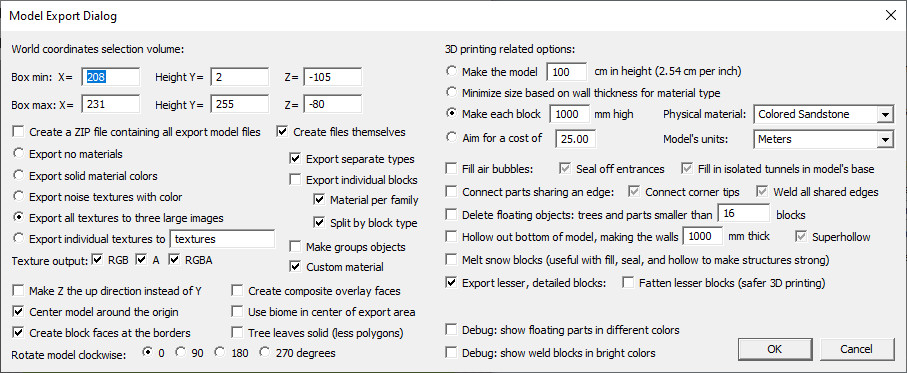
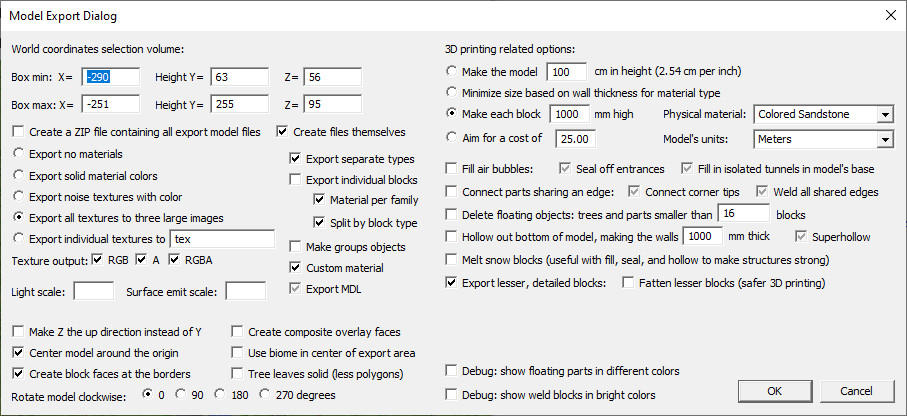
little emitter scale fix, docs 9.06

diff --git a/docs/downloads.html b/docs/downloads.html
@@ -73,7 +73,7 @@
 
 		<div id="content" class="clearfix">
 			<div id="downloadImgs" class="helpLightOuterSector">
-				<a href="https://erich.realtimerendering.com/minecraft/public/mineways/minewaysV905.zip">
+				<a href="https://erich.realtimerendering.com/minecraft/public/mineways/minewaysV906.zip">
 				<div id="windowsDownload">
 					<p>Download for Windows</p>
 					<img id="windows_logo" src="images/windowsLogo.jpg" alt="Windows logo">
@@ -138,13 +138,13 @@
 				<h1 id="platform">Platform-Specific Problems and Fixes</h1>
 				<div id="windowsPlatformHelp" class="helpInnerSector">
 					<h2 id="windows">Windows</h2>
-						<P><B>Can't download Mineways itself?</B> First thing to try: open up an Incognito tab and <a href="http://mineways.com">download from the homepage</a>. If that doesn't work, try using a different browser. Sometimes antivirus software will not allow you to download Mineways (and sometimes it won't even tell you it's "protecting" you). Chrome and other browsers may give you "minewaysVxxx.zip is not commonly downloaded and may be dangerous" with a "Discard" button next to it. Hit the "^" to the right of that and choose "Keep." Alternately, <a href="https://erich.realtimerendering.com/minecraft/public/mineways/minewaysV905min.zip">download the Mineways minimal version</a>, which shouldn't give the warning. Everything else in the main zip is for adding new resource packs, automating processes, etc. Mineways.exe is all you need most of the time. Me, <a href="http://erichaines.com">I'm trustworthy</a>. The Mineways code is open source. That said, <I>do</I> make sure you're downloading Mineways from this site, <a href="http://mineways.com">mineways.com</a> (which renames to https://erich.realtimerendering.com/minecraft/public/mineways/, because I'm a cheapskate).
+						<P><B>Can't download Mineways itself?</B> First thing to try: open up an Incognito tab and <a href="http://mineways.com">download from the homepage</a>. If that doesn't work, try using a different browser. Sometimes antivirus software will not allow you to download Mineways (and sometimes it won't even tell you it's "protecting" you). Chrome and other browsers may give you "minewaysVxxx.zip is not commonly downloaded and may be dangerous" with a "Discard" button next to it. Hit the "^" to the right of that and choose "Keep." Alternately, <a href="https://erich.realtimerendering.com/minecraft/public/mineways/minewaysV906min.zip">download the Mineways minimal version</a>, which shouldn't give the warning. Everything else in the main zip is for adding new resource packs, automating processes, etc. Mineways.exe is all you need most of the time. Me, <a href="http://erichaines.com">I'm trustworthy</a>. The Mineways code is open source. That said, <I>do</I> make sure you're downloading Mineways from this site, <a href="http://mineways.com">mineways.com</a> (which renames to https://erich.realtimerendering.com/minecraft/public/mineways/, because I'm a cheapskate).
 						<P>
 						If you have problems with exporting, first try not changing any <a href="mineways.html#obj_export_options">export options</a>. Some tutorial videos give various options to click in the export dialog. For the most part, the default options should get you something reasonable to start with, and changing them might even cause a crash in Mineways (since there are so many permutations, it is hard for me to test them all).
 						<P>
 						If you get an error about MSVCR140.DLL being missing or "VCRUNTIME140_1.dll was not found" or "api-ms-win-runtime-l1-1-0-.dll" not found or similar, install the <a href="https://support.microsoft.com/en-us/help/2977003/the-latest-supported-visual-c-downloads">Microsoft Visual C++ Redistributable for Visual Studio 2015, 2017 and 2019</a> for your system. Select vc_redist.x64.exe if you have a 64-bit system, vc_redist.x86.exe for a 32-bit system. You may also need to reboot. (Not sure <a href="https://www.howtogeek.com/howto/21726/how-do-i-know-if-im-running-32-bit-or-64-bit-windows-answers/">what system type you have</a>? Press the Windows key+I, select "System", select "About" at the bottom, and look at "System type" under "Device specifications"). Sorry for this annoyance, but Microsoft does not make this easy, and the problem even <a href="https://en.wikipedia.org/wiki/DLL_Hell">has a name</a>. Microsoft will misleadingly say "Reinstalling the program may fix this problem" - it won't. Installing the redistributable will. Still having weird problems on startup? Try <a href="https://support.microsoft.com/en-us/help/929833/use-the-system-file-checker-tool-to-repair-missing-or-corrupted-system">looking for system corruption</a>, advice from <a href="https://forums.dolphin-emu.org/Thread-cxxframehandler4-could-not-be-located">this post</a>. <B>Note:</B> For Mineways 5.10 and earlier, you may get an error about MSVCR120.DLL being missing; install the <a href="https://support.microsoft.com/en-us/help/2977003/the-latest-supported-visual-c-downloads">Visual Studio 2013 (VC++ 12.0)</a> redistributable.
 						<P>
-						If you get "Windows protected your PC" when running Mineways, click on "More info" and then "Run anyway". <a href="http://erichaines.com">I'm trustworthy</a>, but feel free to run the mineways.exe executable through <a href="https://www.virustotal.com/gui/home">VirusTotal</a> to feel safe. Note that this site sometimes reports that VBA32 will find <a href="https://en.wikipedia.org/wiki/Backdoor.Win32.IRCBot">BScope.Backdoor.IRCBot</a> on the Mineways ZIP itself - looking at individual files, mineways32.exe (now "for_old_machines_Mineways32.exe") appears to be the one causing this warning. Note that VBA32 is just 1 of 71 antivirus packages run on the code, so I believe this is a false positive, since the other 70 packages clear it. Read about <a href="https://www.howtogeek.com/180162/how-to-tell-if-a-virus-is-actually-a-false-positive/">false positives here</a>. I've written the VBA32 people about this problem; no response. If you are still concerned, <a href="https://erich.realtimerendering.com/minecraft/public/mineways/minewaysV905min.zip">download the Mineways minimal version</a>, which shouldn't give the warning. Also, I noticed that <a href="https://www.virustotal.com/gui/home">VirusTotal</a> is now saying that the file for_old_machines_Mineways32.exe has the virus Gen:Variant.Razy.582623. I have no idea what that is about; I think it's a false positive but cannot find more information about it on Google. If someone else knows different, clue me in. I have asked about it <a href="https://forum.adaware.com/index.php?/topic/38130-genvariantrazy582623-reported-on-for_old_machines_mineways32exe/">here</a>.
+						If you get "Windows protected your PC" when running Mineways, click on "More info" and then "Run anyway". <a href="http://erichaines.com">I'm trustworthy</a>, but feel free to run the mineways.exe executable through <a href="https://www.virustotal.com/gui/home">VirusTotal</a> to feel safe. Note that this site sometimes reports that VBA32 will find <a href="https://en.wikipedia.org/wiki/Backdoor.Win32.IRCBot">BScope.Backdoor.IRCBot</a> on the Mineways ZIP itself - looking at individual files, mineways32.exe (now "for_old_machines_Mineways32.exe") appears to be the one causing this warning. Note that VBA32 is just 1 of 71 antivirus packages run on the code, so I believe this is a false positive, since the other 70 packages clear it. Read about <a href="https://www.howtogeek.com/180162/how-to-tell-if-a-virus-is-actually-a-false-positive/">false positives here</a>. I've written the VBA32 people about this problem; no response. If you are still concerned, <a href="https://erich.realtimerendering.com/minecraft/public/mineways/minewaysV906min.zip">download the Mineways minimal version</a>, which shouldn't give the warning. Also, I noticed that <a href="https://www.virustotal.com/gui/home">VirusTotal</a> is now saying that the file for_old_machines_Mineways32.exe has the virus Gen:Variant.Razy.582623. I have no idea what that is about; I think it's a false positive but cannot find more information about it on Google. If someone else knows different, clue me in. I have asked about it <a href="https://forum.adaware.com/index.php?/topic/38130-genvariantrazy582623-reported-on-for_old_machines_mineways32exe/">here</a>.
 						<P>
 						If you get "Error writing to export file; partial file output" (and "PNG error: failed to open file for writing") when you try to save an export, it's likely that antivirus software (such as Avast) is blocking Mineways. You need to give Mineways permission to write documents. See the item above if you want to test Mineways for viruses. Another possibility is that the directory path you gave Mineways is somehow confusing it. Try exporting to some directory that is simpler, such as c:\temp (which you may need to create, of course).(<I>Thanks to Repty for figuring out the antivirus solution.</I>)
 						<P>
@@ -223,7 +223,7 @@
 					<h2>General Troubleshooting Guide</h2>
 					<p>If something goes wrong, here's the checklist I go through with people:</p>
 					<UL>
-						<LI>Did you <a href="https://erich.realtimerendering.com/minecraft/public/mineways/minewaysV905.zip">download the latest version</a>? Mineways has undergone many bug fixes.
+						<LI>Did you <a href="https://erich.realtimerendering.com/minecraft/public/mineways/minewaysV906.zip">download the latest version</a>? Mineways has undergone many bug fixes.
 						<LI>Did you read any warnings from the program carefully?
 						<LI>Reboot your computer and try the program one more time, just to be sure. Sometimes starting fresh clears out some box inadvertently checked, or untangles some hidden operating system bug.
 						<LI>Run through the platform-specific problems for <a href="#windows">Windows</a>, <a href="#mac">Mac</a>, and <a href="#linux">Linux</a>.
@@ -233,7 +233,7 @@
 					<UL>
 						<LI> "I double-click on Mineways, it seems to run but doesn't appear" - This is often due to some (still mysterious to me) path problem with where your worlds are located. Instead of double-clicking on Mineways.exe, double-click on the file "mineways_without_worlds" (you might see it end in ".bat"). You'll have to open your worlds manually by finding the right directory. You can easily do this by using File | Open... and then pasting in this for the file name: <b>%appdata%\.minecraft\saves</b> - choose a world directory and select the level.dat file there to open it.
 						<LI> "I tried to export a large area but Mineways ran out of memory or otherwise failed" - First, use mineways.exe and not mineways32.exe (now "for_old_machines_Mineways32.exe"), if you can - the latter is for Windows 32, an old operating system with serious memory limits. Next, try selecting "Give more export memory!" under the "Help" menu and then export. If that fails, you can <a href="scripting.html#hunks">use scripting to export your world</a> as separate "hunks."
-						<LI> "I chose the map fine, but the screen is all gray" - first, try hitting F2 (jump to spawn) and F3 (jump to player) and see if that helps get you to the right spot on your map. Next, you <a href="https://erich.realtimerendering.com/minecraft/public/mineways/minewaysV905.zip">have the latest version of Mineways</a>, right? The latest version is needed to support the newest version of Minecraft, and beta versions of Minecraft can cause problems.</LI>
+						<LI> "I chose the map fine, but the screen is all gray" - first, try hitting F2 (jump to spawn) and F3 (jump to player) and see if that helps get you to the right spot on your map. Next, you <a href="https://erich.realtimerendering.com/minecraft/public/mineways/minewaysV906.zip">have the latest version of Mineways</a>, right? The latest version is needed to support the newest version of Minecraft, and beta versions of Minecraft can cause problems.</LI>
 						<LI> "I use the <i>insert-name-here</i> mod and Mineways doesn't work with it" - Sorry, Mineways likely never will, see <a href="https://github.com/erich666/Mineways/issues/44">this explanation</a> for why mod support is hard.</LI>
 						<LI> "I don't like your torches/flames/etc." - you can remove any block from export by using a <a href="#schemes">color scheme</a>, then put your own models in place. You can use color schemes for all sorts of tricks, e.g., export your model a few times, with different options for the blocks you want to export. To change the textures on a block, use "Export tiles for textures" and edit the individual texture output. You might also look into <a href="https://theduckcow.com/dev/blender/mcprep/">MCprep</a> if you use Blender.
 						<LI> "I read the OBJ file Mineways made into Blender and objects like grass and flowers are surrounded in black." Read the <a href="mineways.html#blender">Blender import documentation</a>, especially step 9.
@@ -275,7 +275,7 @@
 	<div id="footer">
 		<hr>
 		<p>Webmaster: <a href="mailto:erich@acm.org">Eric Haines</a>
-		<br id="lastUpdate">Last updated 11/16/2021</p>	</div>
+		<br id="lastUpdate">Last updated 11/24/2021</p>	</div>
 
 </body>
 </html>

diff --git a/docs/mineways.html b/docs/mineways.html
@@ -109,6 +109,7 @@ Normally you can just hit "OK" on the export dialog and things will work fine. R
    <LI><a href="#obj_export_options">Wavefront OBJ File Export Options</a>
    <LI><a href="#full_material">Custom Material</a>
    <LI><a href="#composite">Create Composite Overlay Faces</a>
+   <LI><a href="#usd_export_options">Pixar USD File Export Options</a>
    <LI><a href="#center_model">Center Model Around the Origin</a>
    <LI><a href="#leaves_solid">Tree Leaves Solid</a>
  </UL>
@@ -443,7 +444,7 @@ If you find you want your model data to be arranged a bit differently for your r
 <P>Any number of polygons can be in an object or group. There is also a set of materials (defined in the .mtl file). One and only one material is applied to each polygon.
 <UL>
 <LI>Export separate types: on by default, this option says each type of block - stone, logs, fences, and so on - are put in a separate group. Turning this option off means no groups are created, which can be useful for simplifying import into rendering packages but can make editing more difficult. This option does not affect how many materials are generated.
-<LI id="individual" class="ib">Export individual blocks: This option is mutually exclusive with the previous option, "Export separate types." Normally Mineways exports only those faces that are visible. By checking this box, <i>all</i> of <i>every</i> block's faces are output, allowing you to animate such operations as mining or explosions. This considerably increases file size and render time, so use it only if you need it. You may also want to check the <a href="#make_groups_objects">Make groups objects</a> option, e.g., for Blender export, as each group will then be a separate object you can manipulate. For Blender you'll also want to make sure "Material per family" is checked. Note that the individual blocks option will change the appearance of some blocks, such as water and glass blocks, as all faces now have sides, which are visible. Normally Minecraft removes these interior sides (e.g., where two glass blocks share a face), but this option makes them visible. This option works for OBJ and USD export. With USD export, two additional USD files are produced, "*_BlockLibrary.usda" and "*_MaterialLibrary.usda".
+<LI id="individual" class="ib">Export individual blocks: This option is mutually exclusive with the previous option, "Export separate types." Normally Mineways exports only those faces that are visible. By checking this box, <i>all</i> of <i>every</i> block's faces are output, allowing you to animate such operations as mining or explosions. This considerably increases file size and render time, so use it only if you need it. You may also want to check the <a href="#make_groups_objects">Make groups objects</a> option, e.g., for Blender export, as each group will then be a separate object you can manipulate. For Blender you'll also want to make sure "Material per family" is checked. Note that the individual blocks option will change the appearance of some blocks, such as water and glass blocks, as all faces now have sides, which are visible. Normally Minecraft removes these interior sides (e.g., where two glass blocks share a face), but this option makes them visible. This option works for OBJ and USD export.
 <LI>Material per family: on by default; blocks in a family (or type; see next option) have their own material. If turned off, a single material is used for all objects. When exporting individual blocks, this checkbox affects whether each block is in its own group (making it easier to edit: move, delete, etc.) or whether individual blocks are grouped by material.
 <LI><a id="material_subtypes">Split by block type</a>: Blocks have a family and a type. When checked (the default), the individual types are used for grouping and materials. If you find you are editing too many materials, turn it off and materials will be exported per family. You can see many of the families <a href="https://minecraft-ids.grahamedgecombe.com/">on this page</a>, e.g., Stone, Granite, Polished Granite..., through Polished Andesite are a family. New materials are limited to those where there's a physical difference in the material itself, not just geometric changes. For example, a cake being sliced will not give it a separate material and group. Crops are given separate materials for each growth level, and farmland for each wetness level. Redstone wire is given separate materials for its 16 levels of power, even though Mineways itself differentiates only between off and on states. Campfires, sea pickles, and respawn anchors will be given <a href="https://minecraft.gamepedia.com/Light">separate emission levels</a> when this box is checked; else the maximum light level is assumed.
 </UL>
@@ -697,8 +698,6 @@ If you want to use the custom material description for OBJ export but do not wan
 
 <P>
 Special note: in terrain files, the one ending in "_r.png" is a roughness texture. When exported for OBJ, this texture is inverted and the exported files are named "_s.png", for "specular". This is all a bit confusing, I know, but my advice is to export using terrainExt_JGRTX64.png, for example, and see what gets created for you, with "Custom material" set or not. If you want the "r" version, you can either manually invert the _s.png images (ugh), or just do a separate USDA export, which will produce the _r.png versions.
-<P>
-For USDA export, the Custom material setting mainly has the effects of making the texture's texels appear blocky, in Minecraft fashion, and present stripped down materials in <a href="#ovcreate">Omniverse Create</a>. This is almost always a good idea, even with high resolution textures. If you turn this option off, you can get texture wrapping problems, where the bottom of a fire cutout, for example, will get interpolated along the top edge of the fire, giving a narrow line of fire at the top of the cutout.
 
 <P>
 <b>Make Z the up direction instead of Y:</b> some graphics applications consider the Y direction to be "up", some Z. If your model imports sideways into your application, check (or uncheck) this box.
@@ -723,6 +722,33 @@ This option was on by default for rendering up to version 5.00 of Mineways (in t
     </div>
   </div>
 </div>
+
+
+<a id="usd_export_options">
+<H4>Pixar USD File Export Options</H4></a>
+
+<a href="https://graphics.pixar.com/usd/release/index.html">Pixar's USD format</a> is getting uptake in many popular digital content creation (DCC) applications, including Cinema 4D, Houdini, Unreal Editor, and (soon) Blender. It is more full-featured than the ancient Wavefront OBJ format, including direct support for physically based materials, emitters, and more. If your package of choice supports it, consider using it!
+
+<P>
+There are a few changes to how the export dialog works. Many options are not supported at this point, as the focus has been the highest-quality and more flexible export option: Export individual textures. This form lets you replace and edit individual texture files. USD export works particularly nicely with the JG-RTX terrain files.
+
+<P>
+What follows are how various options apply to USD export. Also, Mineways' "View | Light" can be toggled on to give nighttime lighting. Turning "View | Elevation shading" on will give a light fog to the USD scene exported.
+
+<P>
+<B>Export individual blocks:</B> With USD export, two additional USD files are produced, "*_BlockLibrary.usda" and "*_MaterialLibrary.usda". USD structures its data in different forms. These additional files contain the individual blocks and materials, in case these are of use as-is.
+
+<P>
+<B>Export MDL:</B> Applies only to USD export. <a href="https://www.nvidia.com/en-us/design-visualization/technologies/material-definition-language/">MDL material descriptions</a> are exported. These generally give higher-quality looks to glass objects, for example. Omniverse is the main user of MDL at this point, with other applications coming up to speed. Turning this off will export only <a href="https://graphics.pixar.com/usd/release/wp_usdpreviewsurface.html">UsdPreviewSurface material descriptions</a>. Note that UsdPreviewSurface descriptions are always exported.
+
+<P>
+<B>Custom material:</B> This option is ignored if Export MDL is off. For USDA export, the Custom material setting mainly has the effects of making the texture's texels appear blocky, in Minecraft fashion, and present stripped down materials in <a href="#ovcreate">Omniverse Create</a>. This is almost always a good idea, even with high resolution textures. If you turn this option off, you can get texture wrapping problems, where the bottom of a fire cutout, for example, will get interpolated along the top edge of the fire, giving a narrow line of fire at the top of the cutout.
+
+<P>
+<B>Light scale:</B> Used only by USD. This has a value of 30 by default. You can change the intensity of the lights exported to USD - the sun and dome light - by changing this value. The sun is normally at 30, the surrounding dome light is 6. Nighttime lighting of 2 and 2 respectively, is used if you toggle on the View | Lighting option before export. If you set the light scale to 0, the two lights will not be exported to the USD file.
+
+<P>
+<B>Surface emit scale:</B> Used only by USD. This has a value of 1000 by default. It's more or less a <a href="https://en.wikipedia.org/wiki/Candela_per_square_metre">nit</a> value for emitting surfaces. Omniverse Create looks good with the default, though realistically the emitters are then quite bright (but look good for interior scenes or when the sun is turned off). Adjusting the camera exposure is another way to deal with this situation.
 
 
 <a id="center_model">
@@ -2589,7 +2615,7 @@ The textures and rules used in Minecraft for how blocks appear and connect have 
 From newest to oldest. The very newest is work in progress, with "*" meaning "to do" and "**" meaning "stretch goal."
 <UL>
 
-<LI>Version 9.06, */*/*
+<LI>Version 9.06, 11/24/2021 - <a href="https://erich.realtimerendering.com/minecraft/public/mineways/minewaysV906.zip">exe</a>, <a href="https://github.com/erich666/Mineways/tags">source</a>.
   <BR>
   <UL>
 	<LI>Improved map chunk caching, giving smoother pans and faster response. Empty chunks now noted and cached; a resized cache doesn't empty it; other improvements and cleanups. You might still run out of memory - don't make the screen so large.
@@ -2602,12 +2628,11 @@ From newest to oldest. The very newest is work in progress, with "*" meaning "to
 	<LI>USDA: Added Light scale for scaling the sun and dome light. Default value is 30. Setting this value to 0 turns off light export entirely.
 	<LI>USDA: Scaled the emissive texture up properly (by about 1000) for the UsdPreviewSurface representation, and exposed this in the export dialog as Surface emit scale. Emission from surfaces is not well-defined for UsdPreviewSurface, so you may need to fiddle with this scale factor depending on your application and needs.
 	<LI>USDA: Added "Export MDL" checkbox, on by default. If you know you don't need MDL material descriptions, turn this off; only the UsdPreviewSurface material representation will be exported.
-	***********[TODO: add this and the above to the docs, and to scripting, and make a new USD area in the docs. Note light export and atmospheric export.]Update Omniverse USD docs about samples per pixel and how to adjust it to be above 100
-
 	<LI>Emission textures: these are now exported as colored textures. They are generated by multiplying the chroma of the diffuse texture (i.e., the "maximum" color for the pixel) by the emission grayscale texture, if any. This is generally a better look for blocks such as lava than the grayscale emissive texture, which various DCC apps interpret in different ways.
 	<LI>USDA: Better default sun and dome light Euler angle ordering. X rotation is now altitude, Y is azimuth, Z does nothing. Change fog to be mild, not pure gloom.
 	<LI>USDA (only): For roughness and metalness and emission textures, test if all values in the texture are the same value. If so, export the value instead of exporting the texture.
-	<LI>*Updated JG-RTX.
+	<LI><a href="#usd_export_options">USD documentation</a> added.
+	<LI>Updated JG-RTX terrain files.
   </UL>
 
 <LI>Version 9.05, 11/2/2021 - <a href="https://erich.realtimerendering.com/minecraft/public/mineways/minewaysV905.zip">exe</a>, <a href="https://github.com/erich666/Mineways/tags">source</a>.
@@ -3567,7 +3592,7 @@ The Mineways program is <a href="https://github.com/erich666/Mineways">open sour
 	<div id="footer">
 		<hr>
 		<p>Webmaster: <a href="mailto:erich@acm.org">Eric Haines</a>
-		<br id="lastUpdate">Last updated 11/4/2021</p>
+		<br id="lastUpdate">Last updated 11/24/2021</p>
 	</div>
 </div>
 

diff --git a/docs/index.html b/docs/index.html
@@ -72,7 +72,7 @@
 	</div>
 	
     <div id="content" class="clearfix">
-		<p><b><a href="https://erich.realtimerendering.com/minecraft/public/mineways/minewaysV905.zip">Download Mineways 9.05 for Windows</a></b>. The full download includes eight converted resource packs (182 Mb), or <b><a href="https://erich.realtimerendering.com/minecraft/public/mineways/minewaysV905min.zip">download the Mineways minimal version</a></b>, which consists of just the program without any documentation, resource textures, scripting, etc. (3 Mb) - it may be all you need. Can't download or run? <a href="downloads.html#windows">Get help here</a>. To use Mineways, watch the first minute of <a href="https://youtu.be/xmsnE85GNV8">this tutorial</a> or <a href="downloads.html#instructions">read this</a>. Want to run on the Mac? See <a href="downloads.html#mac">here</a>.
+		<p><b><a href="https://erich.realtimerendering.com/minecraft/public/mineways/minewaysV906.zip">Download Mineways 9.06 for Windows</a></b>. The full download includes eight converted resource packs (182 Mb), or <b><a href="https://erich.realtimerendering.com/minecraft/public/mineways/minewaysV906min.zip">download the Mineways minimal version</a></b>, which consists of just the program without any documentation, resource textures, scripting, etc. (3 Mb) - it may be all you need. Can't download or run? <a href="downloads.html#windows">Get help here</a>. To use Mineways, watch the first minute of <a href="https://youtu.be/xmsnE85GNV8">this tutorial</a> or <a href="downloads.html#instructions">read this</a>. Want to run on the Mac? See <a href="downloads.html#mac">here</a>.
 		
 		<p>Mineways lets you export your creations from <a href="https://minecraft.gamepedia.com/Java_Edition">Minecraft: Java Edition</a>, versions 1.17 and earlier, into 3D files you can use for making images, movies, or 3D prints. Are you using a <a href="https://minecraft.gamepedia.com/Bedrock_Edition">Bedrock Edition</a> of Minecraft? You can <a href="mineways.html#mcpe">convert your world</a> so that Mineways can read it. 
 		
@@ -81,7 +81,7 @@
 		<P>
 		<b>Donations:</b> Mineways is free and <a href="https://github.com/erich666/Mineways">open source</a>. If you like it, please consider <a href="https://secure.givewell.org/">giving</a> to, say, <a href="https://www.givewell.org/">GiveWell</a> or <a href="https://www.charitynavigator.org/">your favorite charity</a>. Your donation can significantly improve or even save someone else's life.
 
-		<P><b>Quick start:</b> <a href="https://erich.realtimerendering.com/minecraft/public/mineways/minewaysV905.zip">Download</a> and unzip the files somewhere, double-click mineways.exe, and watch a minute of <a href="https://www.youtube.com/watch?v=xmsnE85GNV8&feature=youtu.be&t=21">this video</a> (then <a href="https://youtu.be/zaNBzOG6viY">this</a> and <a href="https://youtu.be/Ds-cgn-42go">this</a> for advanced tips), or go to the <a href="downloads.html">quickstart page</a> for written instructions. Look at the <a href="mineways.html">main documentation page</a> for detailed information about all features and options. To run Mineways on Mac or Linux see <a href="downloads.html#mac">these instructions</a>.
+		<P><b>Quick start:</b> <a href="https://erich.realtimerendering.com/minecraft/public/mineways/minewaysV906.zip">Download</a> and unzip the files somewhere, double-click mineways.exe, and watch a minute of <a href="https://www.youtube.com/watch?v=xmsnE85GNV8&feature=youtu.be&t=21">this video</a> (then <a href="https://youtu.be/zaNBzOG6viY">this</a> and <a href="https://youtu.be/Ds-cgn-42go">this</a> for advanced tips), or go to the <a href="downloads.html">quickstart page</a> for written instructions. Look at the <a href="mineways.html">main documentation page</a> for detailed information about all features and options. To run Mineways on Mac or Linux see <a href="downloads.html#mac">these instructions</a>.
 		
 		<P>
 		<b>Problems running?</b> If <a href="downloads.html#windows">MSVCR140.DLL is missing</a> or <a href="downloads.html#windows">VCRUNTIME140_1.dll is not found</a>, install <a href="https://support.microsoft.com/en-us/help/2977003/the-latest-supported-visual-c-downloads">vc_redist.x64.exe</a>. For more help, see the troubleshooting guides for <a href="downloads.html#windows"><b>Windows</b></a>, <a href="downloads.html#mac"><b>Mac</b></a>, <a href="downloads.html#linux"><b>Linux</b></a>, consult the <a href="downloads.html#troubleshooting"><b>general guide</b></a>, or use the search engine.
@@ -168,7 +168,7 @@
 	<div id="footer">
 		<hr>
 		<p>Webmaster: <a href="mailto:erich@acm.org">Eric Haines</a>
-		<br id="lastUpdate">Last updated 11/2/2021</p>	</div>
+		<br id="lastUpdate">Last updated 11/24/2021</p>	</div>
 </div>
 
 </body>

diff --git a/docs/scripting.html b/docs/scripting.html
@@ -318,6 +318,9 @@ Export separate objects: <i>YES</i><br>
 Individual blocks: <i>no</i><br>
 Material per family: <i>YES</i><br>
 G3D full material: <i>YES</i><br>
+Export MDL: <i>YES</i><br>
+Light scale: <i>30</i><br>
+Surface emit scale: <i>30</i><br>
 Make Z the up direction instead of Y: <i>no</i><br>
 Create composite overlay faces: <i>no</i><br>
 Center model: <i>YES</i><br>
@@ -1015,7 +1018,7 @@ Running the script to set up the scene, then exporting (manually) to Sketchfab, 
 	<div id="footer">
 		<hr>
 		<p>Webmaster: <a href="mailto:erich@acm.org">Eric Haines</a>
-		<br id="lastUpdate">Last updated 10/19/2021</p>	</div>
+		<br id="lastUpdate">Last updated 11/24/2021</p>	</div>
 </div>
 
 </body>

diff --git a/Win/ObjFileManip.cpp b/Win/ObjFileManip.cpp
@@ -27674,15 +27674,26 @@ static int writeEmissiveScaledTile(wchar_t* filename, int index)
                 // Take the grayscale level of the colored diffuse texture. If this is the same value as the
                 // grayscale emitter, we're done
                 int diffuseGray = (int)((0.30f * imageDiffuseSrc[0]) + (0.59f * imageDiffuseSrc[1]) + (0.11f * imageDiffuseSrc[2]) + 0.5f);
-                int emitterGray = (int)*imageEmitSrc++;
+                int emitterGray = (int)*imageEmitSrc++; // always do this, to get past emitter level
 
-                if (fabs(diffuseGray - emitterGray) <= 1.0f) {
-                    *imageDst++ = *imageDiffuseSrc++;
-                    *imageDst++ = *imageDiffuseSrc++;
-                    *imageDst++ = *imageDiffuseSrc++;
+                // not particularly useful optimization, and could cause banding
+                //if (fabs(diffuseGray - emitterGray) <= 1.0f) {
+                //    *imageDst++ = *imageDiffuseSrc++;
+                //    *imageDst++ = *imageDiffuseSrc++;
+                //    *imageDst++ = *imageDiffuseSrc++;
+                //}
+                //else 
+                if (diffuseGray == 0.0f || emitterGray == 0.0f) {
+                    // avoid division by 0, and optimize on black case
+                    *imageDst++ =
+                    *imageDst++ =
+                    *imageDst++ = 0;
+                    imageDiffuseSrc += 3;
                 }
                 else {
-                    // else do this: scale diffuse up or down, clamping
+                    // Else do this: scale diffuse up or down, preserving color.
+                    // A bit tricky, in that what if a diffuse texel is black but the emitter says it should
+                    // emit light? We decide in favor of the result being black.
                     float scale = (float)emitterGray / (float)diffuseGray;
                     float r = scale * (float)*imageDiffuseSrc++;
                     float g = scale * (float)*imageDiffuseSrc++;
